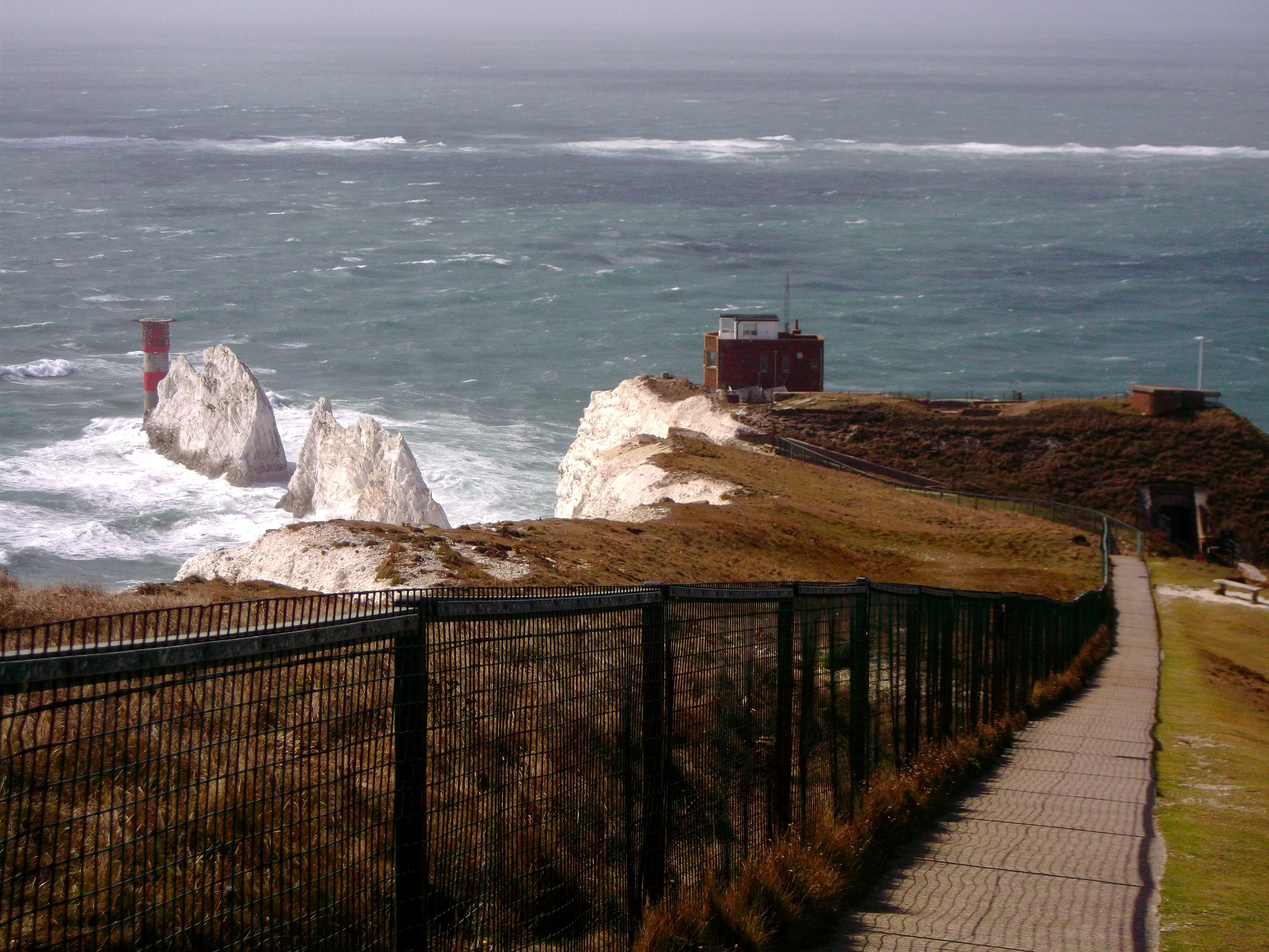
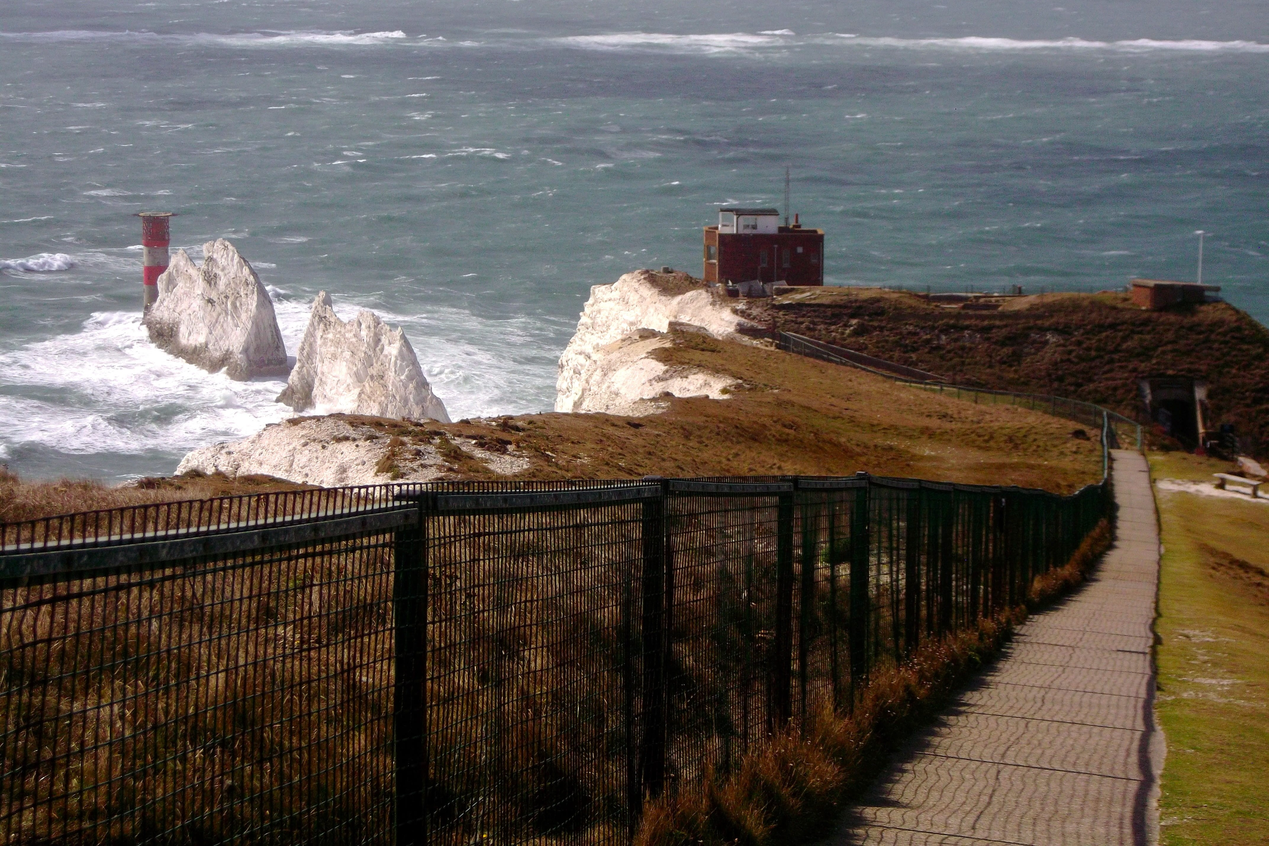
moved WINGS to past travel, added picture, cropped BIGW picture to 3:2 ratio

diff --git a/_pages/travel.md b/_pages/travel.md
@@ -7,11 +7,14 @@ nav_order: 5
 description: 
 ---
 ## upcoming
-1. [**Women in Number Theory and Geometry Spring Retreat 2026**](https://wings2026.github.io/) - 13-16th April 2026 - Cheltenham, UK
 1. [**All Codimensions Mean Curvature Flow and Minimal Surfaces**](https://www.math.ku.dk/english/calendar/events/codimensions26/) - 27th April-1st May 2026, Copenhagen, Denmark
 1. [**European School of Differential Geometry**](https://sites.google.com/view/esdg-aq26) - 22nd June-3rd July 2026, L'Aquila, Italy
 
 ## history
+1. [**Women in Number Theory and Geometry Spring Retreat 2026**](https://wings2026.github.io/) - 13-16th April 2026 - Cheltenham, UK
+    <img src="../assets/img/travel/WINGsApr2026.JPG" style="width: 65%" alt="Leckhampton Hill with Cheltenham in the background" class="center">
+    <div class="caption">Leckhampton Hill with Cheltenham in the background, April 2026</div>
+
 1. [**Brussels-London XXV: The geometry of phase transitions**](https://geometry.ulb.ac.be/brussels-london/) - 30th January 2026, Brussels, Belgium
     <img src="../assets/img/travel/BLJan2026.jpg" style="width: 65%" alt="Mont des Arts, Brussels" class="center">
     <div class="caption">Mont des Arts, Brussels, January 2026</div>
